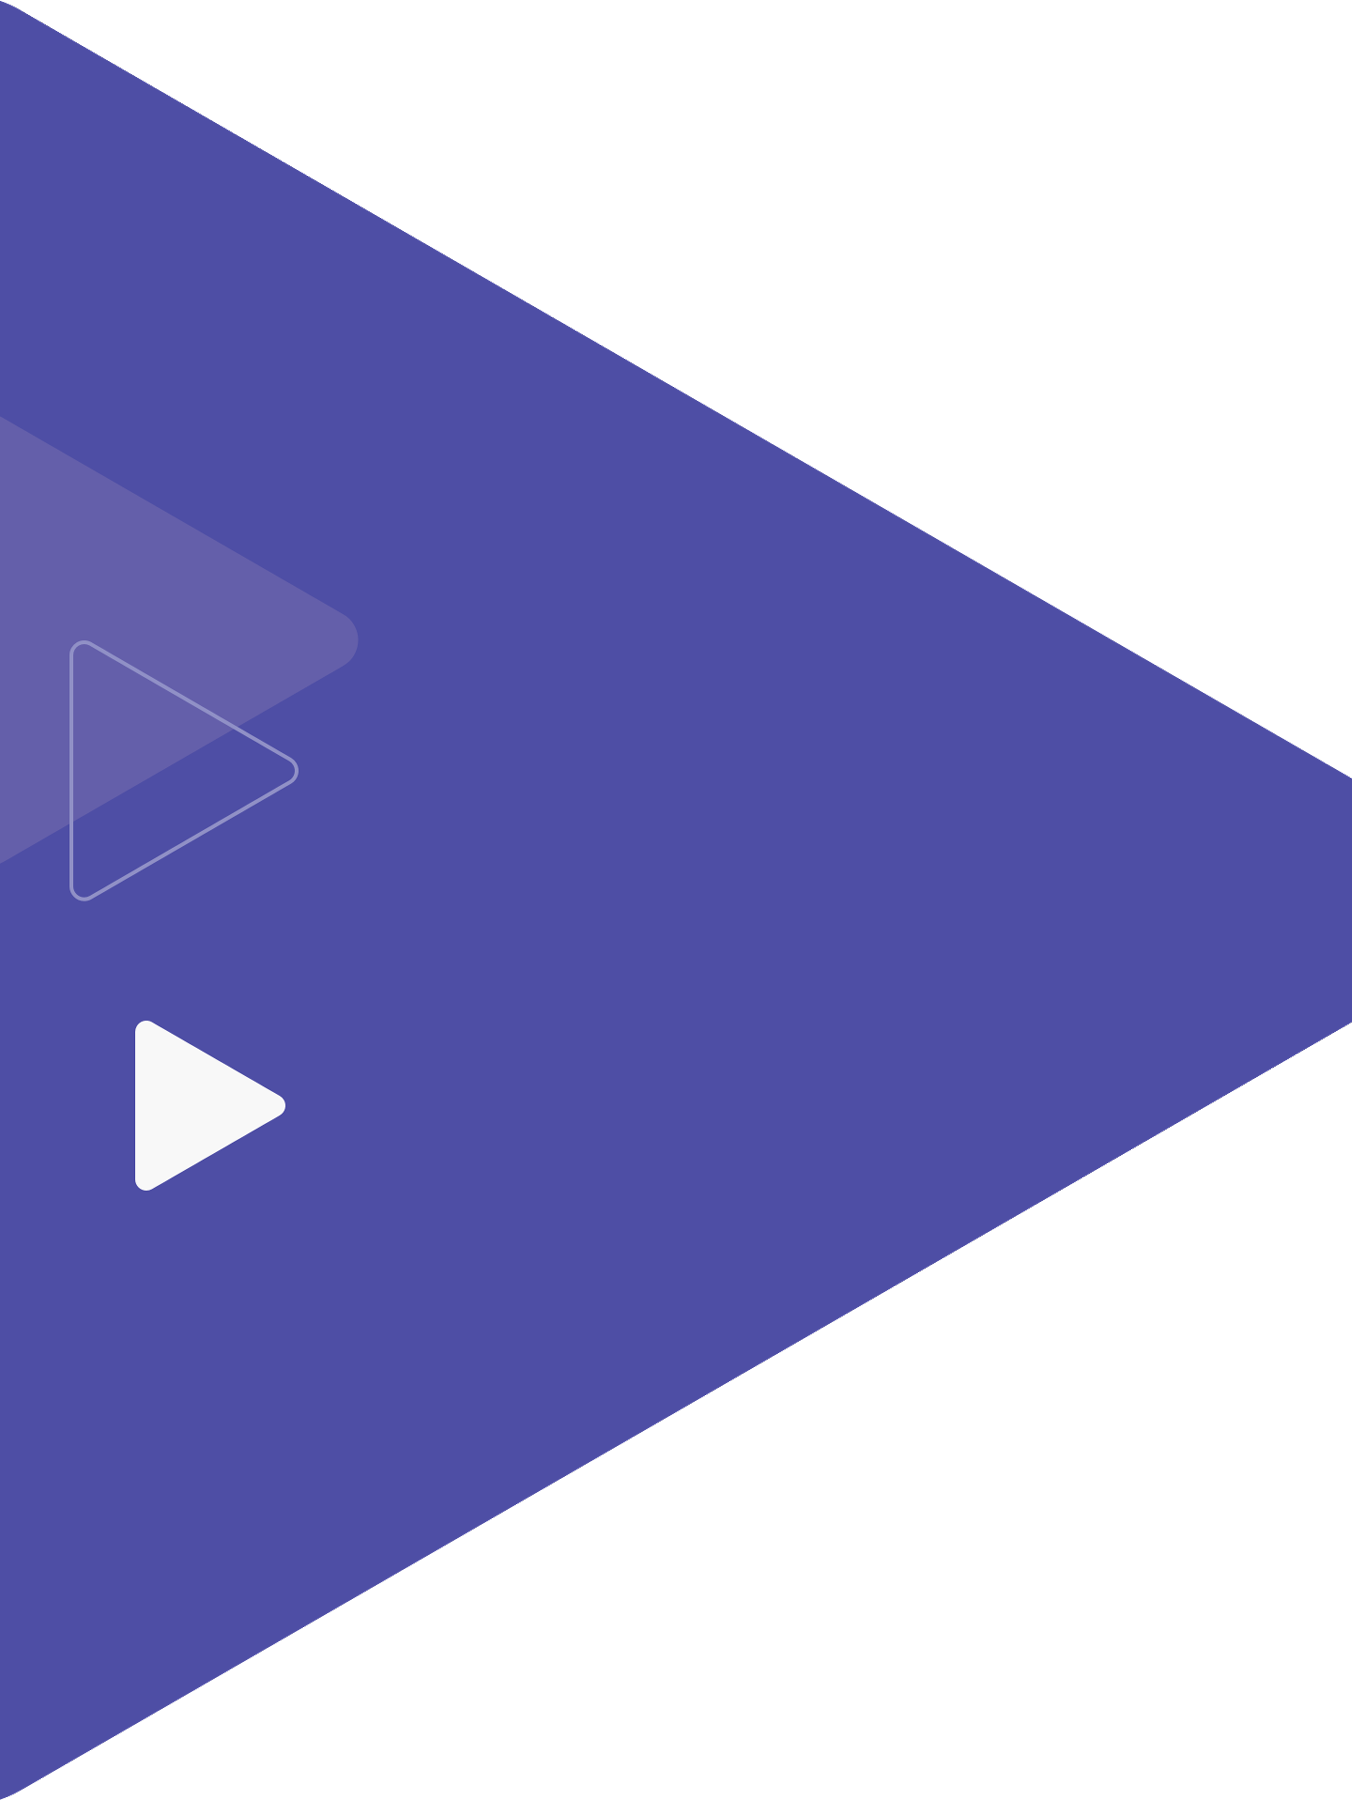
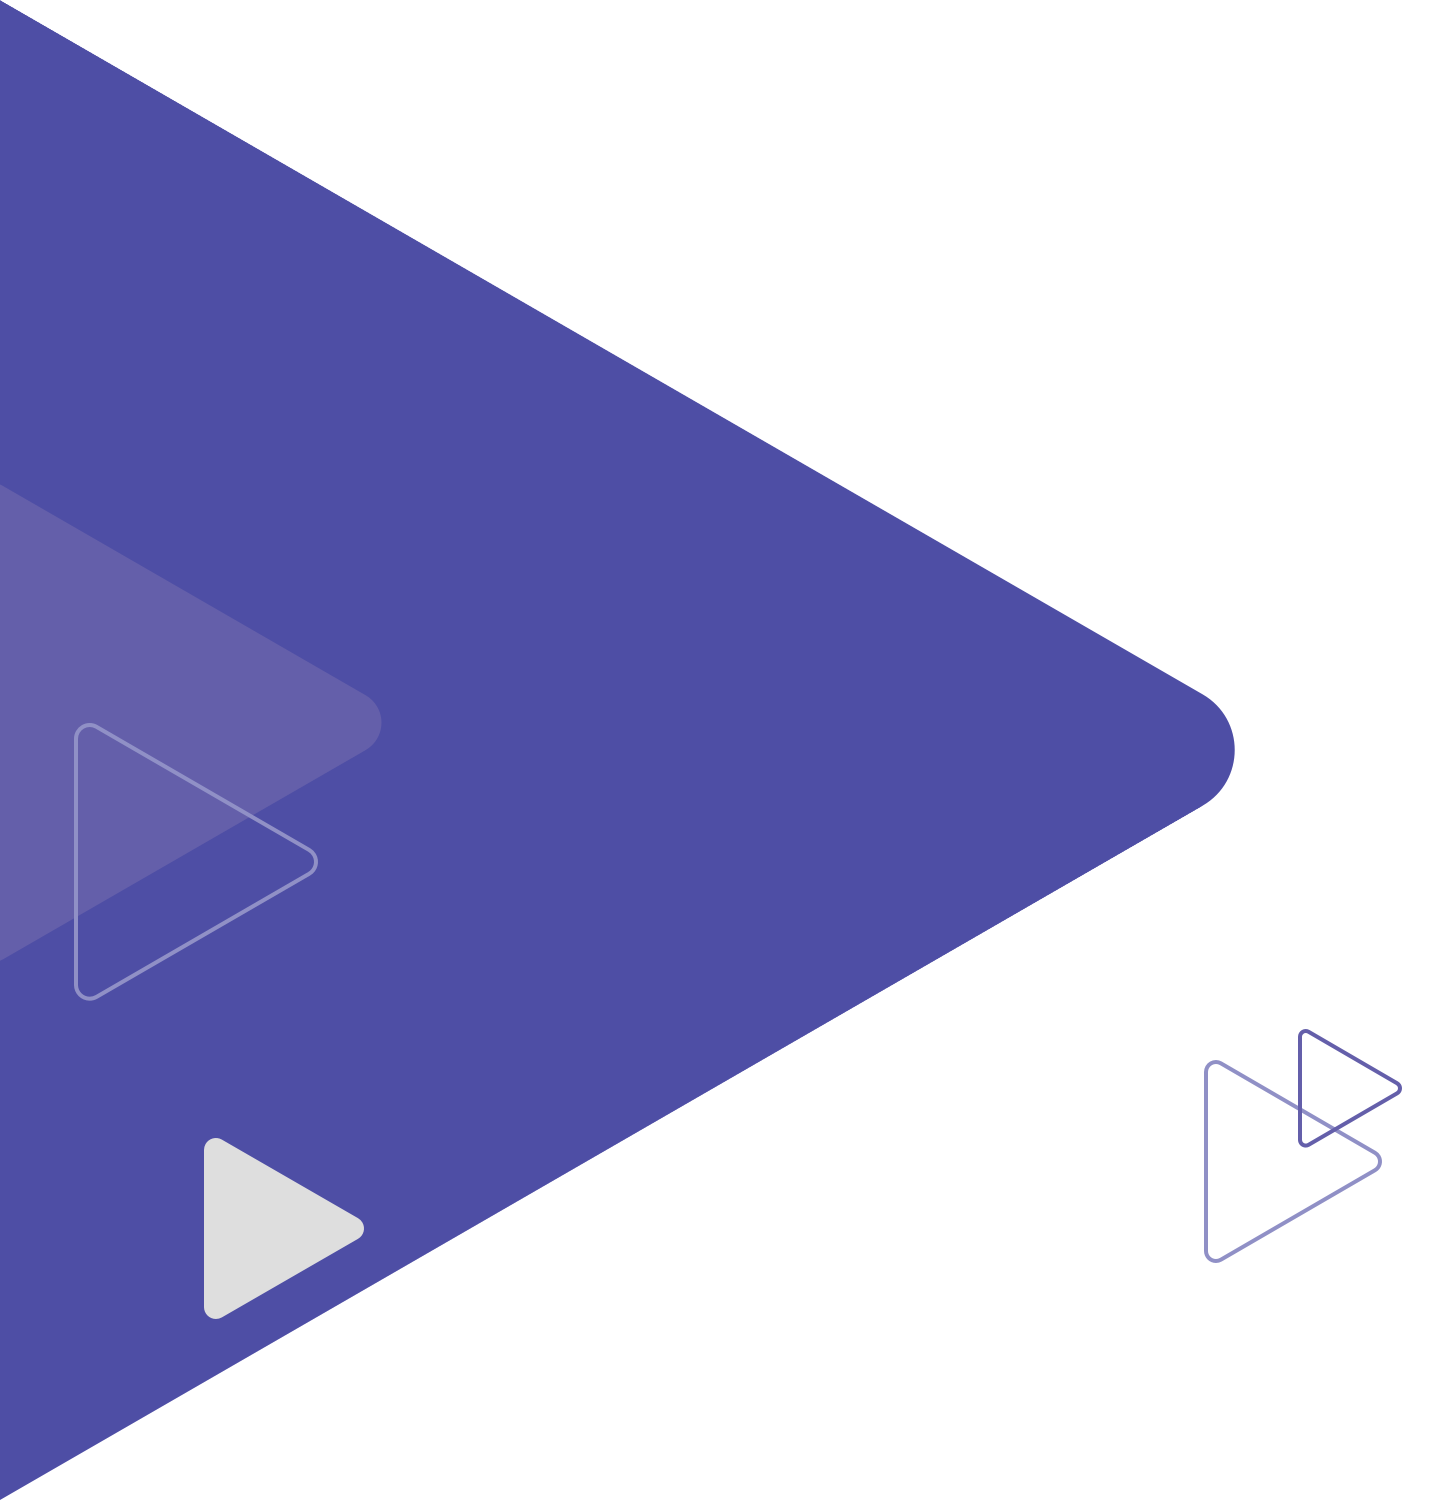
update bg arrow posittion and assets save for llp

diff --git a/css/app.css b/css/app.css
@@ -30,9 +30,9 @@ p, ol li, ul li { line-height:1.4;}
 
 .section-home { background:#fff url(../images/backgrounds/bg-home.png) no-repeat center; background-size:cover;}
 
-.section-intro { background:#fff url(../images/backgrounds/bg-arrow.png) no-repeat left 45vh; background-size:cover;}
-.section-intro-video { background:#fff url(../images/backgrounds/bg-arrow.png) no-repeat left -55vh; background-size:cover;}
-.section-features { background:#fff url(../images/backgrounds/bg-arrow.png) no-repeat left -155vh; background-size:cover;}
+.section-intro { background:#fff url(../images/backgrounds/bg-arrow.png) no-repeat; background-size:1440px 1500px; background-position:left 0 top 50vh}
+.section-intro-video { background:#fff url(../images/backgrounds/bg-arrow.png) no-repeat; background-size:1440px 1500px; background-position:left 0 top -50vh}
+.section-features { background:#fff url(../images/backgrounds/bg-arrow.png) no-repeat; background-size:1440px 1500px; background-position:left 0 top -150vh}
 
 .article h2 { font-size:2rem; font-weight:700; line-height:1.2; margin:0 0 .5rem; color:#EAAE61; text-transform: uppercase}
 .article h2 small { text-transform: none; font-weight:400; color:#fff; font-size:1.75rem; display:block;}
@@ -61,7 +61,7 @@ p, ol li, ul li { line-height:1.4;}
 .block-menu .block-item a { }
 
 .video-container { margin:2.5rem 0;}
-.video-container h4 { color:#fff; font-size:1.75rem; margin:0; font-weight:400}
+.video-container h4 { color:#EAAE61; font-size:1.75rem; margin:0; font-weight:600}
 
 .reveal { border-radius:0; overflow: visible; padding:.5rem}
 .reveal .close-button { height:2rem; width:2rem; text-align:center; color:#fff; background:#EF9224; top:-.5rem; right:-.5rem; z-index:32; border-radius:0;}
